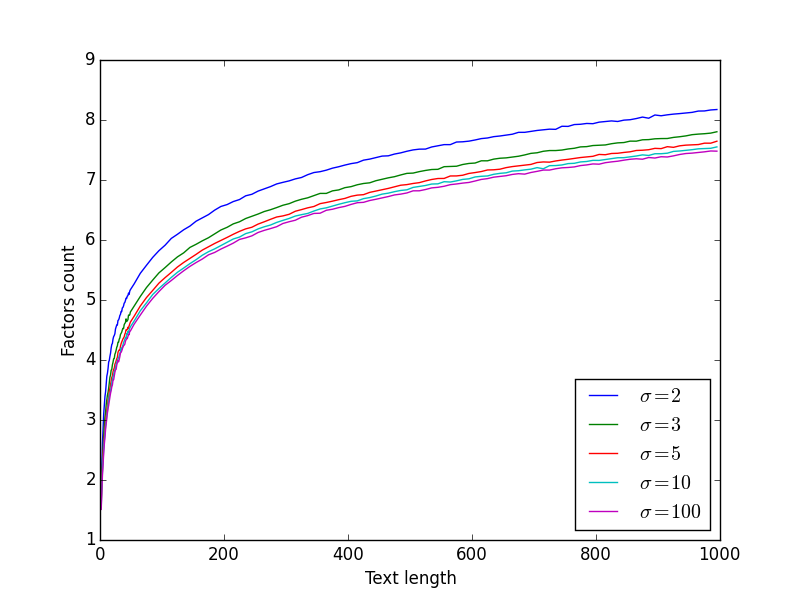
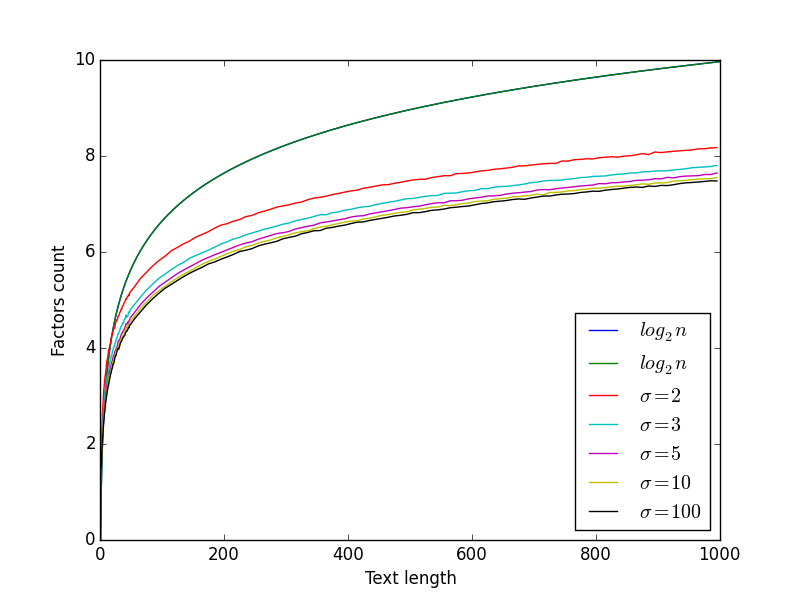
add log_2(n) to figures for different alphabet sizes

diff --git a/src/py/graph.py b/src/py/graph.py
@@ -11,7 +11,7 @@ if __name__ == '__main__':
     # nice figures only
     counts = defaultdict(lambda: defaultdict(float))
     print 'Reading...'
-    with open('../../result_lengths.txt') as fd:
+    with open('../../result_alphabets.txt') as fd:
         reader = csv.reader(fd, delimiter=' ')
         try:
             while True:
@@ -21,6 +21,7 @@ if __name__ == '__main__':
         except StopIteration:
             pass
 
+        pl.plot(np.arange(1000), np.log2(np.arange(1000)), label='$log_2 n$')
         for alphabet_size in [2, 3, 5, 10, 100]:
             lengths = sorted(counts[alphabet_size])
             pl.plot(lengths, map(counts[alphabet_size].get, lengths), label='$\sigma = {}$'.format(alphabet_size))
@@ -30,6 +31,7 @@ if __name__ == '__main__':
         pl.savefig('../../results/alphabets.png')
         pl.clf()
 
+        pl.plot(np.arange(1000), np.log2(np.arange(1000)), label='$log_2 n$')
         step = 10
         lengths = range(2, 50) + range(50, 1001, step)
         for alphabet_size in [2, 3, 5, 10, 100]:
